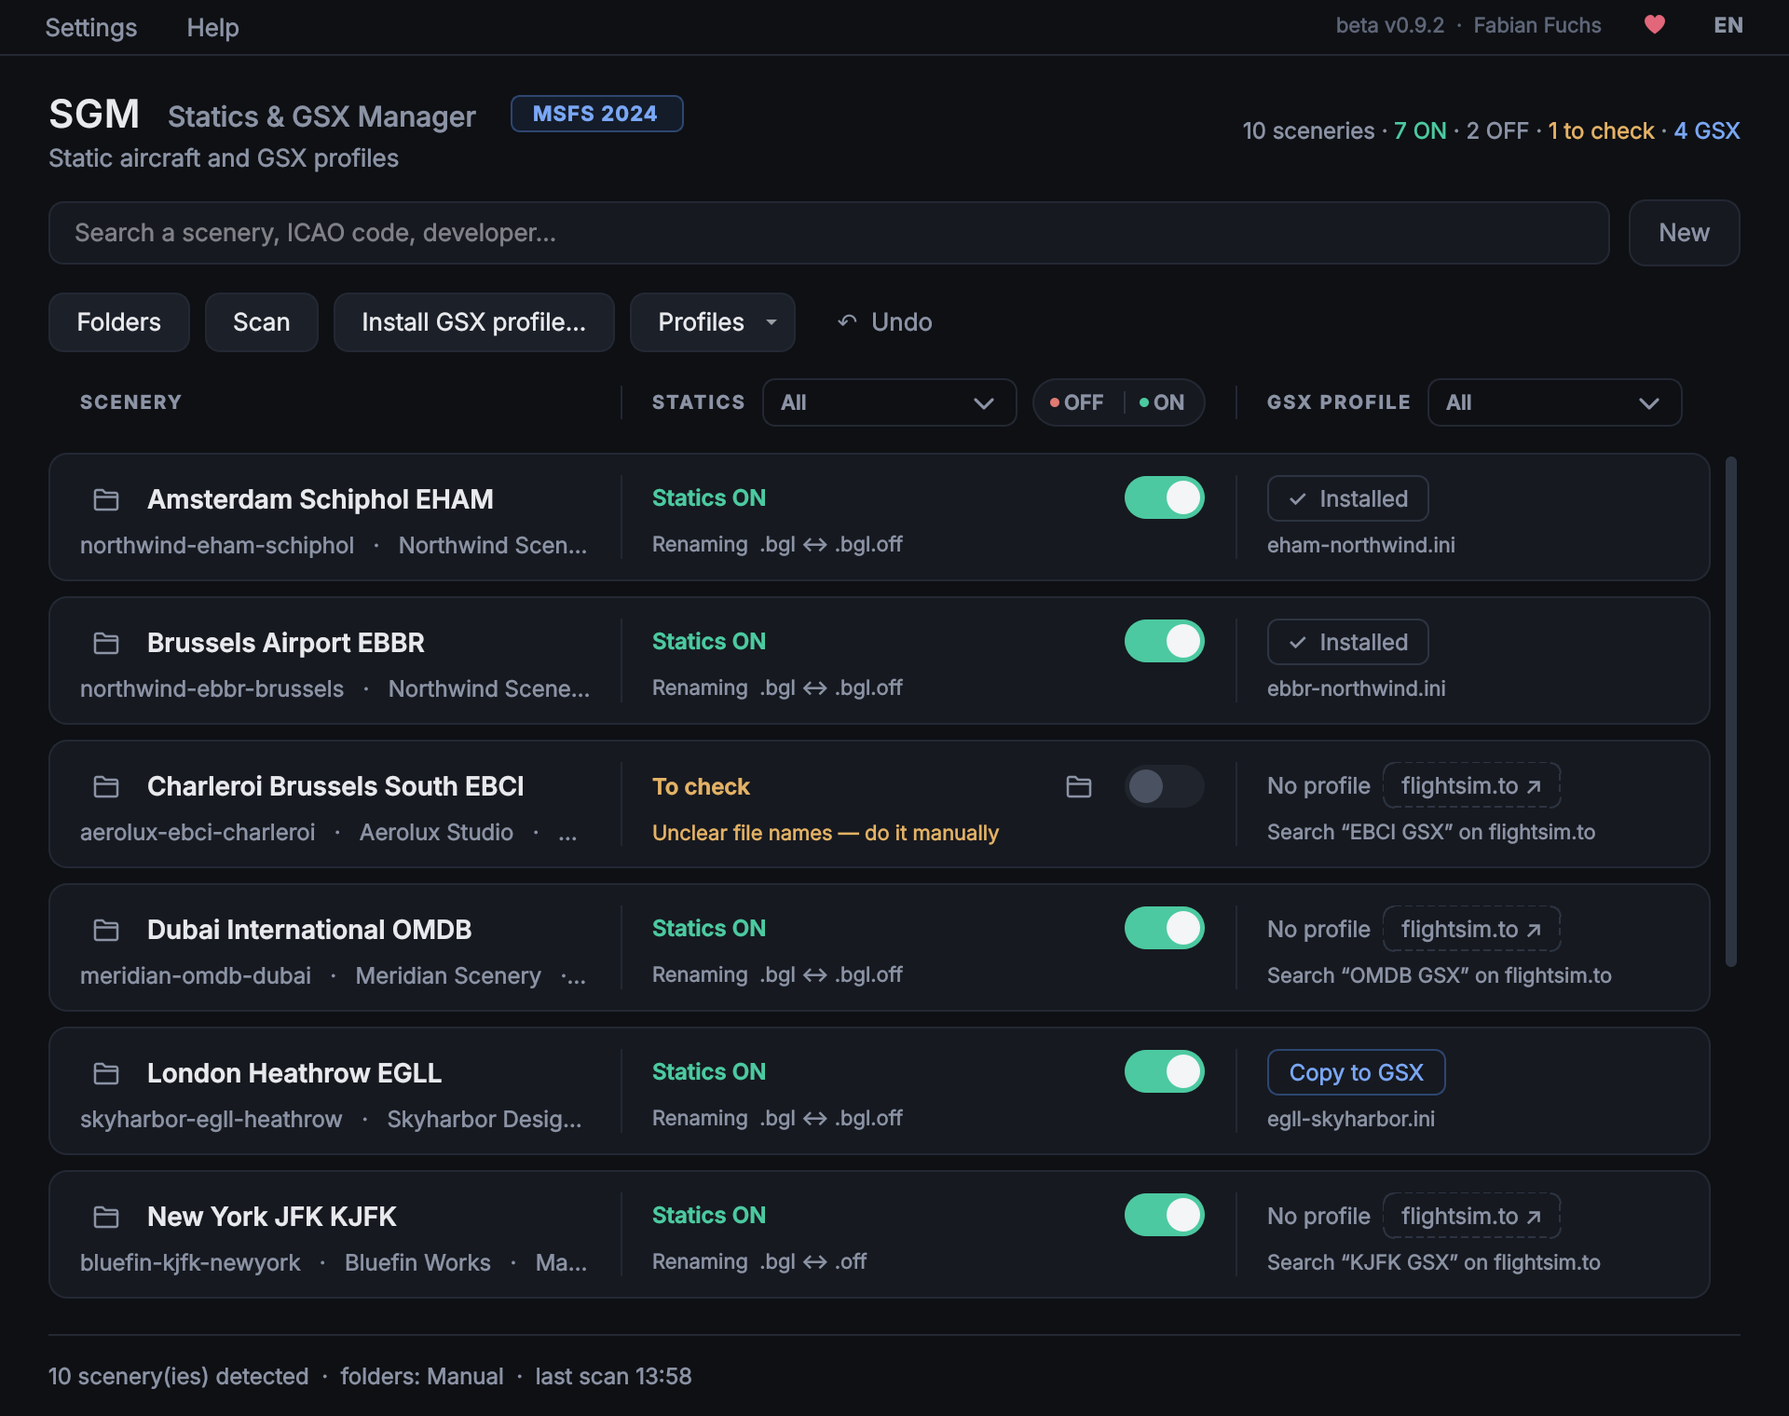
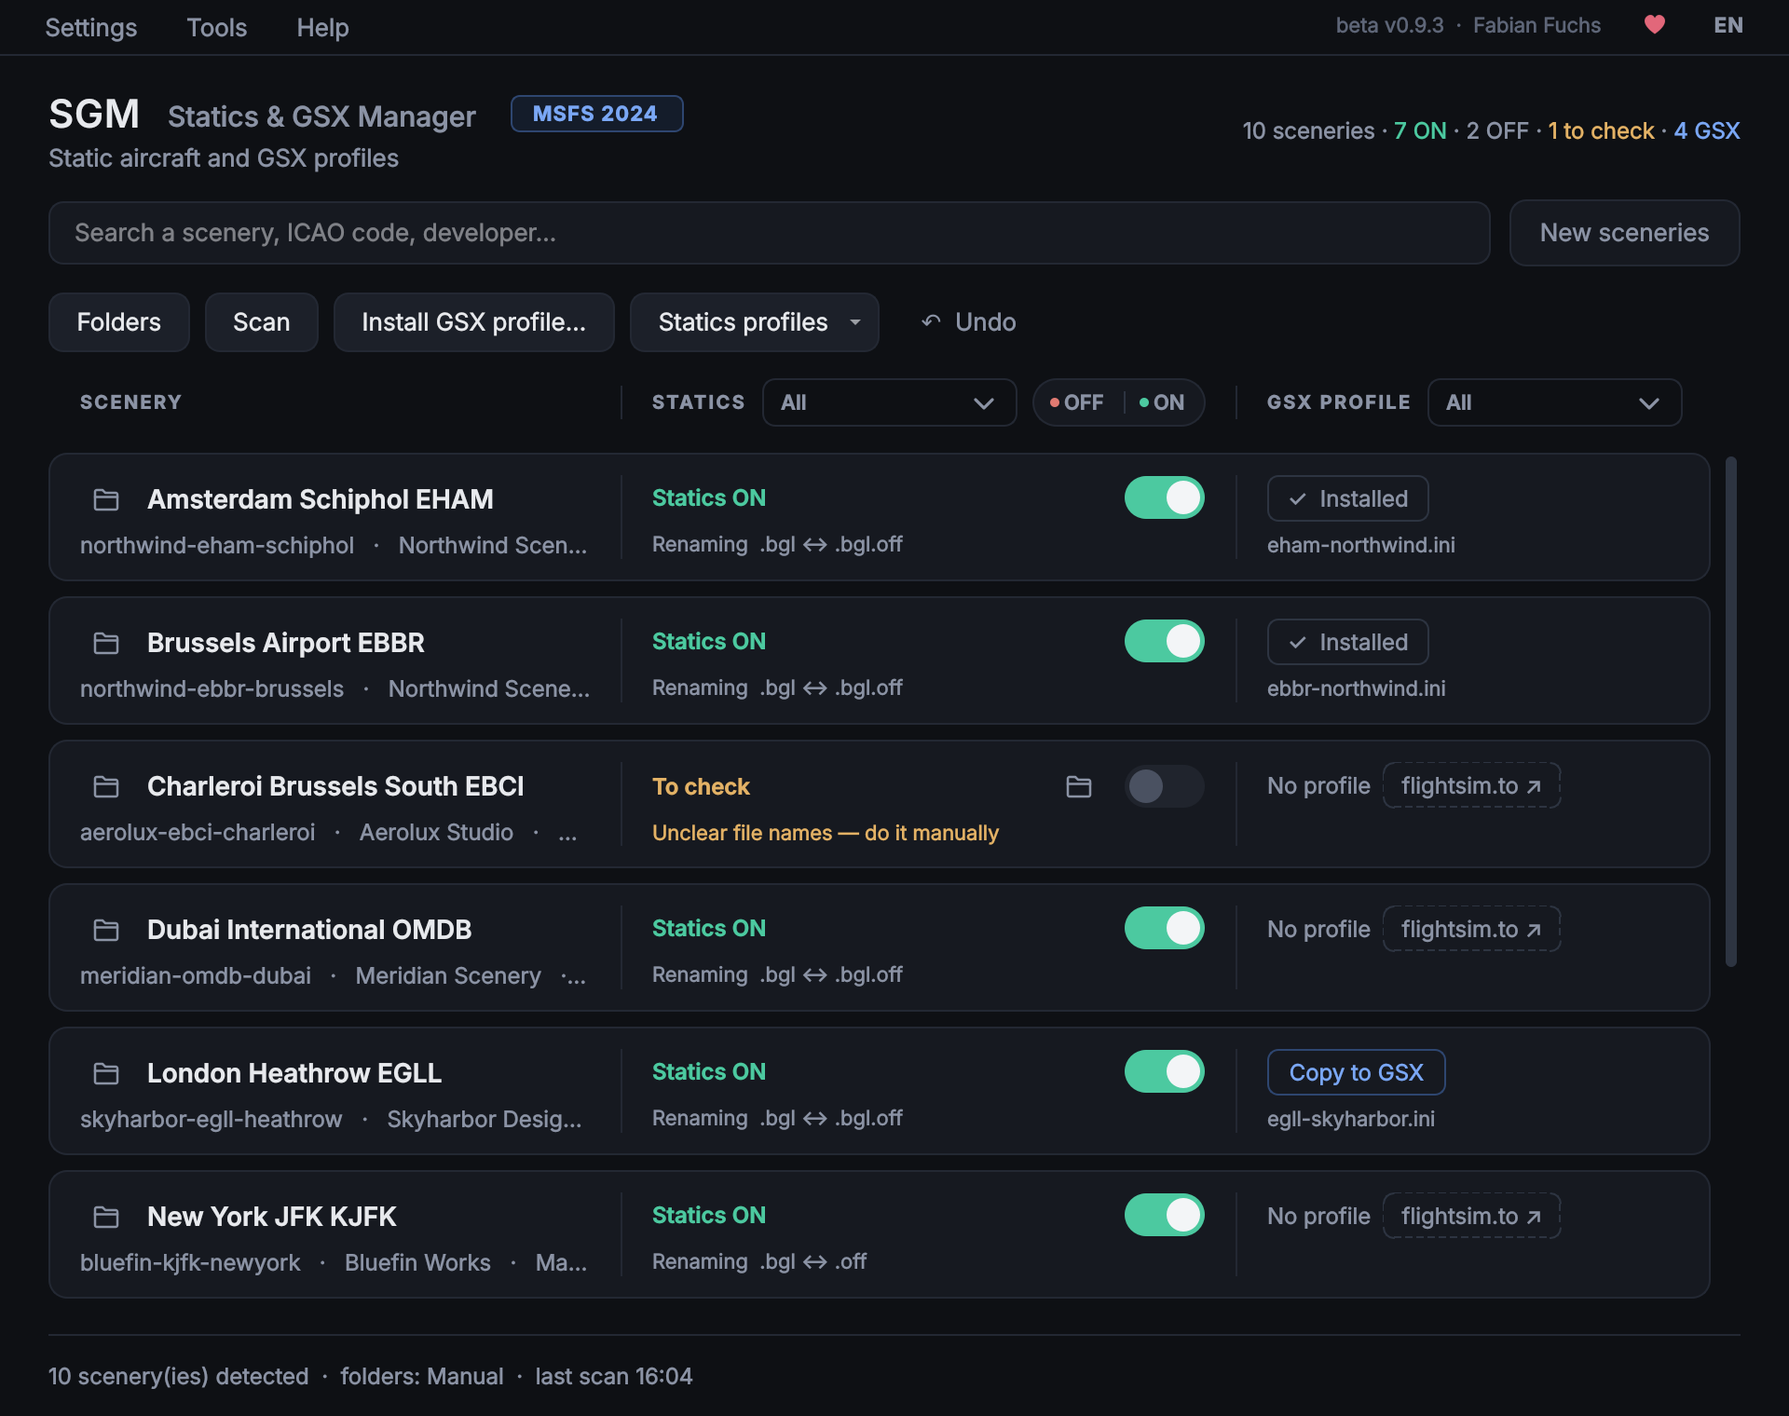
Version beta v0.9.3 : numéro, historiques, texte flightsim.to, visuels refaits avec les nouveaux menus
Reprend aussi les derniers commits de #33 restés hors de main (visuels, textes flightsim.to, décisions v1.0).

Claude-Session: https://claude.ai/code/session_01LxzMtoJ1pXRjDPWXRstKPr

diff --git a/docs/flightsim/visuels/src/annotated.html b/docs/flightsim/visuels/src/annotated.html
@@ -45,15 +45,15 @@ h1 { left: 470px; top: 58px; font-family: "Sign"; font-weight: 800; font-size: 7
   <div class="shot"><img src="shots/main.png" alt=""></div>
 
   <!-- repères : coordonnées de la capture (vue 2000 px) × 0,84 + (70, 200) -->
-  <div class="pin" style="left:256px; top:218px">1</div>
+  <div class="pin" style="left:325px; top:217px">1</div>
   <div class="pin" style="left:519px; top:273px">2</div>
   <div class="pin" style="left:1662px; top:215px">3</div>
   <div class="pin" style="left:1374px; top:284px">4</div>
-  <div class="pin" style="left:1639px; top:330px">5</div>
+  <div class="pin" style="left:1580px; top:315px">5</div>
   <div class="pin" style="left:198px; top:435px">6</div>
   <div class="pin" style="left:371px; top:435px">7</div>
-  <div class="pin" style="left:527px; top:435px">8</div>
-  <div class="pin" style="left:705px; top:407px">9</div>
+  <div class="pin" style="left:555px; top:435px">8</div>
+  <div class="pin" style="left:765px; top:407px">9</div>
   <div class="pin" style="left:1126px; top:430px">10</div>
   <div class="pin" style="left:1297px; top:430px">11</div>
   <div class="pin" style="left:120px; top:507px">12</div>
@@ -66,15 +66,15 @@ h1 { left: 470px; top: 58px; font-family: "Sign"; font-weight: 800; font-size: 7
   <div class="pin" style="left:1628px; top:707px">19</div>
 
   <ol class="legend">
-    <li><i class="n">1</i><div><b>Menus</b><span>Settings (language, folders, updates) and Help (guide, report, restore).</span></div></li>
+    <li><i class="n">1</i><div><b>Menus</b><span>Settings, Tools (scan, profiles, undo, restore, reports) and Help.</span></div></li>
     <li><i class="n">2</i><div><b>Simulator</b><span>MSFS 2024 or MSFS 2020, each with its own folders and settings.</span></div></li>
     <li><i class="n">3</i><div><b>Version, support, language</b><span>The heart supports the project; EN is the interface language (12 available).</span></div></li>
     <li><i class="n">4</i><div><b>Summary</b><span>Sceneries found, statics ON and OFF, sceneries to check, GSX profiles.</span></div></li>
-    <li><i class="n">5</i><div><b>Search and New</b><span>By name, ICAO or developer. New: added since last time.</span></div></li>
+    <li><i class="n">5</i><div><b>Search and New</b><span>By name, ICAO or developer. New sceneries: added since last time.</span></div></li>
     <li><i class="n">6</i><div><b>Folders and Scan</b><span>Where SGM looks. Scan rereads your sceneries and your download folders.</span></div></li>
     <li><i class="n">7</i><div><b>Install GSX profile</b><span>Pick a .zip, .7z or .rar, or drop it anywhere on the window.</span></div></li>
-    <li><i class="n">8</i><div><b>Profiles</b><span>Save the ON/OFF state of all sceneries and apply it again in one click.</span></div></li>
-    <li><i class="n">9</i><div><b>Undo</b><span>Ctrl+Z puts the files of the last action back. The last 10 are kept.</span></div></li>
+    <li><i class="n">8</i><div><b>Statics profiles</b><span>Save the ON/OFF state of all sceneries and apply it again in one click.</span></div></li>
+    <li><i class="n">9</i><div><b>Undo</b><span>Ctrl+Z puts the files of the last action back. F5 scans, Ctrl+F searches.</span></div></li>
     <li><i class="n">10</i><div><b>Column filters</b><span>Show only statics ON, OFF or to check, or a GSX status.</span></div></li>
     <li><i class="n">11</i><div><b>All OFF / All ON</b><span>Every scenery shown, simple cases only.</span></div></li>
     <li><i class="n">12</i><div><b>Scenery</b><span>The folder icon opens it. Right-click to restore its original state.</span></div></li>

diff --git a/statics_manager.py b/statics_manager.py
@@ -55,7 +55,7 @@ from i18n import LANGS, RTL_LANGS, get_lang, set_lang, tr
 
 APP_NAME = "SGM"
 APP_FULL = "Statics & GSX Manager"
-APP_VERSION = "0.9.2"
+APP_VERSION = "0.9.3"
 APP_AUTHOR = "Fabian Fuchs"
 # Lien de don public (PayPal.me)
 DONATE_URL = "https://paypal.me/Fuchy"

diff --git a/docs/flightsim/maj-v0.9.3.md b/docs/flightsim/maj-v0.9.3.md
@@ -1,20 +1,20 @@
-# Mise à jour flightsim.to — beta v0.9.2
+# Mise à jour flightsim.to — beta v0.9.3
 
 Tout ce qu'il faut pour mettre à jour la page https://flightsim.to/addon/119017/sgm-statics-gsx-manager-beta-v0-5
 Les textes à recopier sont en anglais, entre les lignes `---`.
 
 ## Marche à suivre
 
-1. **Fichier** : après la publication de la release v0.9.2 sur GitHub, télécharge `SGM_beta_v0.9.2.zip`
+1. **Fichier** : après la publication de la release v0.9.3 sur GitHub, télécharge `SGM_beta_v0.9.3.zip`
    (pièce jointe de la release). C'est le même fichier que la mise à jour automatique, avec son empreinte SHA-256.
-2. Sur flightsim.to : *Edit* › *Upload new version* › dépose `SGM_beta_v0.9.2.zip`.
-3. **Version** : `beta v0.9.2` — **titre de la version** : `beta v0.9.2 — Safety, reliability & automatic updates`
+2. Sur flightsim.to : *Edit* › *Upload new version* › dépose `SGM_beta_v0.9.3.zip`.
+3. **Version** : `beta v0.9.3` — **titre de la version** : `beta v0.9.3 — Safety, reliability & a cleaner interface`
 4. **Changelog** : recopie le bloc « Changelog ». Il couvre tout depuis la v0.8, puisque la v0.9 et la v0.9.1
-   n'ont jamais été publiées. Si tu as déjà mis la v0.9 en ligne sur flightsim.to, ne recopie que la partie
-   « beta v0.9.2 ».
+   et la v0.9.2 n'ont jamais été publiées. Si tu as déjà mis la v0.9 en ligne sur flightsim.to, ne recopie que les
+   parties « beta v0.9.3 » et « beta v0.9.2 ».
 5. **Short description** et **Description** : remplace les textes actuels par ceux ci-dessous.
 6. **Mots-clés** : ajoute ceux de la liste.
-7. **Images** : remplace la galerie par les 4 visuels de `docs/flightsim/visuels/` (1920 × 1080), dans l'ordre :
+7. **Images** : remplace la galerie par les 5 visuels de `docs/flightsim/visuels/` (1920 × 1080, le 5e en 2560 × 1440), dans l'ordre :
    `1-hero.png` (vignette), `2-statics.png`, `3-gsx.png`, `4-securite.png`, `5-interface.png` (interface expliquée).
 8. Le message de don et « About Me » ne changent pas.
 
@@ -22,7 +22,7 @@ Les textes à recopier sont en anglais, entre les lignes `---`.
 
 ## Titre de la version
 
-beta v0.9.2 — Safety, reliability & automatic updates
+beta v0.9.3 — Safety, reliability & a cleaner interface
 
 ---
 
@@ -50,7 +50,7 @@ Switch airport static aircraft ON/OFF in one click — the developers' own metho
 - **Drag & drop** a downloaded archive (.zip, .7z, .rar) onto SGM, or let SGM find GSX profile archives in your **download folders** (at launch and with Scan) and install them — it can then send the archive to the Recycle Bin.
 
 **Safe by design**
-- **Undo** (Ctrl+Z) for every action — all-or-nothing, even if a file is locked midway — backup before every change, and a record of the **original state** of each scenery: right-click › *Restore original state*, or *Help › Restore everything to original*.
+- **Undo** (Ctrl+Z) for every action — all-or-nothing, even if a file is locked midway — backup before every change, and a record of the **original state** of each scenery: right-click › *Restore original state*, or *Tools › Restore everything to original*.
 - Blocked while MSFS 2020 or MSFS 2024 is running. A GSX profile you edited yourself is never removed or overwritten. A scenery changed since the last scan is never touched.
 - Downloaded archives are checked before anything is extracted: only `.ini` / `.py` profile files, safe paths, limited size.
 - No installation. The only internet connection is the optional **automatic update** check (asked at first launch): nothing about you or your files is ever sent. 12 languages.
@@ -63,6 +63,11 @@ If SGM saves you some time, you can buy me a coffee ☕ — https://paypal.me/Fu
 ---
 
 ## Changelog
+
+**beta v0.9.3 — Cleaner interface**
+- **Menus reorganised**: *Settings*, a new *Tools* menu (scan, install a GSX profile, statics profiles, undo, restore everything, analysis report, backups and log folders) and *Help*.
+- **Keyboard shortcuts**: Ctrl+F search, Esc clears the search then the filters, F5 scan, Ctrl+Z undo, F1 guide.
+- Clearer labels (*Statics profiles*, *New sceneries*); the update question is a banner instead of a blocking window; lighter GSX column; Folders window in titled sections.
 
 **beta v0.9.2 — Safety & reliability**
 
@@ -91,13 +96,13 @@ If SGM saves you some time, you can buy me a coffee ☕ — https://paypal.me/Fu
 
 **Updating**
 - From v0.9 or later: SGM offers this version itself (*Update now*).
-- From an older version: delete the old SGM folder (keep `SGM_data` to keep your settings, backups and profiles), unzip v0.9.2, run `SGM.exe`. From now on, SGM can update itself.
+- From an older version: delete the old SGM folder (keep `SGM_data` to keep your settings, backups and profiles), unzip v0.9.3, run `SGM.exe`. From now on, SGM can update itself.
 
 ---
 
 ## Mots-clés (à ajouter aux actuels)
 
-auto update, undo, profiles, safe, 7z, rar
+auto update, undo, profiles, safe, 7z, rar, shortcuts
 
 Mots-clés actuels, pour mémoire : statics, static aircraft, parked aircraft, GSX, GSX Pro, GSX profile, Virtuali,
 FSDreamTeam, scenery, airport, community folder, manager, tool, utility, MSFS 2024, MSFS 2020, toggle, AI traffic,

diff --git a/docs/ROADMAP.md b/docs/ROADMAP.md
@@ -7,18 +7,15 @@ Règles : les agents ajoutent les idées dans **À trier**. **Seul Fabian** dép
 
 Placés par Fabian le 2026-11-15 (« je suis tes propositions »).
 
-1. **Publier la v0.9.2 sur GitHub** — Fabian publie (aucun agent ne publie) : Actions › « Préparer une release
-   (brouillon) », puis « Publish release ». Ne pas publier le brouillon v0.9 (faille des chemins d'archive,
-   corrigée en v0.9.2) : le supprimer. S.
-2. **v0.9.3 : ergonomie (revue design D6 à D14)** — menus regroupés (Outils / Paramètres / Aide), raccourcis Ctrl+F, F5,
-   Échap ; libellés « Défaire », « Profils statics », « Nouvelles scènes » ; question de mise à jour dans le bandeau ;
-   colonne GSX plus légère ; hiérarchie de la fenêtre Dossiers. M.
-3. **Version installable et v1.0 RC** (placé par Fabian le 2026-11-15, voir DECISIONS) — installeur Inno Setup par
+1. **Publier la v0.9.3 sur GitHub** (au lieu de la v0.9.2 : elle contient tout) — Fabian publie (aucun agent ne
+   publie) : Actions › « Préparer une release (brouillon) », puis « Publish release ». Supprimer le brouillon v0.9
+   (faille des chemins d'archive). Puis mise à jour flightsim.to (`docs/flightsim/maj-v0.9.3.md`). S.
+2. **Version installable et v1.0 RC** (placé par Fabian le 2026-11-15, voir DECISIONS) — installeur Inno Setup par
    utilisateur, reprise du `SGM_data` portable par copie (premier lancement et Paramètres), désinstallation qui garde
    les données, mise à jour automatique de la version installée (installeur vérifié SHA-256, lancé en silencieux),
    release avec zip portable + installeur compatibles avec les v0.9.x, fin de « beta » (titres, README,
    flightsim.to, visuels). M à L.
-4. **Nouvelles fonctions (revue R&D, E1 à E5)**, après la 1.0 — statics remis par une mise à jour de scène (bandeau
+3. **Nouvelles fonctions (revue R&D, E1 à E5)**, après la 1.0 — statics remis par une mise à jour de scène (bandeau
    « Réappliquer ») ; profil GSX peut-être périmé ; détection du trafic IA ; export / import des réglages et profils ;
    tri de « À trier ». Points à **décision de Fabian** avant développement : doublons OACI (SGM ou 3AM ?),
    Marketplace en lecture seule, ligne de commande. M à L.
@@ -26,7 +23,7 @@ Placés par Fabian le 2026-11-15 (« je suis tes propositions »).
 
 ## En cours (PR à tester)
 
-- beta v0.9.2 — branche `sprint/2026-11-15-v0.9.2`.
+- beta v0.9.3 — branche `sprint/2026-11-15-v0.9.3`.
 
 ## À trier
 
@@ -55,6 +52,8 @@ Chaque sujet : titre, origine, bénéfice pour l'utilisateur, estimation (S/M/L)
 
 ## Livré
 
+- **Ergonomie v0.9.3** (PR #34) — menus Paramètres / Outils / Aide, raccourcis, libellés, bandeau de mise à jour,
+  colonne GSX allégée, fenêtre Dossiers en sections. « Annuler » gardé (mot de Windows pour Ctrl+Z).
 - **beta v0.9.2** (préparée) — sécurité archives et mise à jour (PR #29), robustesse et tout-ou-rien (PR #30),
   défauts de design (PR #31), traductions et guide (PR #32).
 - **Mise à jour : 404 = aucune version publiée** (PR #27), **beta v0.9** (PR #26).

diff --git a/README_FR.md b/README_FR.md
@@ -1,4 +1,4 @@
-# SGM — Statics & GSX Manager · beta v0.9.2
+# SGM — Statics & GSX Manager · beta v0.9.3
 
 <p align="center"><img src="assets/SGM-256.png" width="128" alt="SGM"></p>
 
@@ -32,7 +32,7 @@ SGM le fait pour toi :
 
 Il n'y a rien à installer.
 
-1. Décompresse `SGM_beta_v0.9.2.zip` où tu veux (dossier d'outils, clé USB…).
+1. Décompresse `SGM_beta_v0.9.3.zip` où tu veux (dossier d'outils, clé USB…).
 2. Lance `SGM.exe`, dans le dossier `SGM`.
 
 Garde tout le dossier `SGM` ensemble : `SGM.exe` a besoin du dossier `_internal` placé à côté de lui.
@@ -132,7 +132,7 @@ Une mise à jour de scène (par le Marketplace ou un installateur) peut remettre
 Prérequis : Python 3.10 ou plus récent.
 
 1. Place ensemble `statics_manager.py`, `i18n.py`, `build_exe.bat`, les deux README et le dossier `licenses`.
-2. Lance `build_exe.bat`. Il installe PySide6 et PyInstaller, crée `dist\SGM\SGM.exe`, y copie les licences et les README, puis crée `dist\SGM_beta_v0.9.2.zip`.
+2. Lance `build_exe.bat`. Il installe PySide6 et PyInstaller, crée `dist\SGM\SGM.exe`, y copie les licences et les README, puis crée `dist\SGM_beta_v0.9.3.zip`.
 
 Pour lancer sans compiler : `pip install pyside6`, puis `python statics_manager.py`.
 
@@ -181,6 +181,11 @@ Détails et versions exactes : `licenses/THIRD-PARTY-NOTICES.txt` et **Aide › 
 - Microsoft Flight Simulator est une marque de Microsoft Corporation. GSX est un produit de FSDreamTeam / Virtuali. Les autres noms et marques appartiennent à leurs propriétaires.
 
 ## Historique des versions
+
+**beta v0.9.3**
+- **Menus réorganisés** : *Paramètres*, un nouveau menu *Outils* (analyser, installer un profil GSX, profils de statics, annuler, tout restaurer, rapport d'analyse, dossiers des sauvegardes et du journal) et *Aide*.
+- **Raccourcis clavier** : Ctrl+F recherche, Échap vide la recherche puis les filtres, F5 analyser, Ctrl+Z annuler, F1 guide.
+- Libellés plus clairs (*Profils de statics*, *Nouvelles scènes*), question de mise à jour dans un bandeau au lieu d'une fenêtre bloquante, colonne GSX allégée, fenêtre Dossiers en sections titrées.
 
 **beta v0.9.2**
 - **Sécurité** : les archives contenant des chemins absolus ou réseau sont refusées ; les archives .7z / .rar avec un fichier de profil démesuré sont refusées avant extraction ; la mise à jour ne remplace que les fichiers de SGM et accepte tout nom de dossier.

diff --git a/README.md b/README.md
@@ -1,4 +1,4 @@
-# SGM — Statics & GSX Manager · beta v0.9.2
+# SGM — Statics & GSX Manager · beta v0.9.3
 
 <p align="center"><img src="assets/SGM-256.png" width="128" alt="SGM"></p>
 
@@ -32,7 +32,7 @@ SGM does it for you:
 
 There is nothing to install.
 
-1. Unzip `SGM_beta_v0.9.2.zip` anywhere (tools folder, USB stick…).
+1. Unzip `SGM_beta_v0.9.3.zip` anywhere (tools folder, USB stick…).
 2. Run `SGM.exe` from the `SGM` folder.
 
 Keep the whole `SGM` folder together: `SGM.exe` needs the `_internal` folder next to it.
@@ -132,7 +132,7 @@ A scenery update (for example through the Marketplace or an installer) may resto
 Requirements: Python 3.10 or newer.
 
 1. Put `statics_manager.py`, `i18n.py`, `build_exe.bat`, both README files and the `licenses` folder together.
-2. Run `build_exe.bat`. It installs PySide6 and PyInstaller, builds `dist\SGM\SGM.exe`, copies the licences and README files, and creates `dist\SGM_beta_v0.9.2.zip`.
+2. Run `build_exe.bat`. It installs PySide6 and PyInstaller, builds `dist\SGM\SGM.exe`, copies the licences and README files, and creates `dist\SGM_beta_v0.9.3.zip`.
 
 To run without building: `pip install pyside6`, then `python statics_manager.py`.
 
@@ -181,6 +181,11 @@ Details and exact versions: `licenses/THIRD-PARTY-NOTICES.txt` and **Help › Li
 - Microsoft Flight Simulator is a trademark of Microsoft Corporation. GSX is a product of FSDreamTeam / Virtuali. All other names and trademarks are the property of their respective owners.
 
 ## Version history
+
+**beta v0.9.3**
+- **Menus reorganised**: *Settings*, a new *Tools* menu (scan, install a GSX profile, statics profiles, undo, restore everything, analysis report, backups and log folders) and *Help*.
+- **Keyboard shortcuts**: Ctrl+F search, Esc clears the search then the filters, F5 scan, Ctrl+Z undo, F1 guide.
+- Clearer labels (*Statics profiles*, *New sceneries*), update question shown in a banner instead of a blocking window, lighter GSX column, Folders window in titled sections.
 
 **beta v0.9.2**
 - **Safety**: archives containing absolute or network paths are refused; .7z / .rar archives with an oversized profile file are refused before extraction; the updater only replaces SGM's own files and handles any folder name.

diff --git a/docs/DECISIONS.md b/docs/DECISIONS.md
@@ -5,7 +5,7 @@ Ces décisions s'imposent à tous les agents. Seul Fabian les modifie.
 ## Produit
 
 - **Nom** : SGM — Statics & GSX Manager (anciennement Statics Manager).
-- **Auteur** : Fabian Fuchs. Version actuelle : beta v0.9.2 (sprint proposé et accepté par Fabian le 2026-11-15).
+- **Auteur** : Fabian Fuchs. Version actuelle : beta v0.9.3 (ergonomie, chemin vers la v1.0 décidé par Fabian le 2026-11-15).
 - **Simulateurs** : MSFS 2024 par défaut, mode MSFS 2020 en option, mémoire séparée par simulateur.
 - **Portable** : aucune installation, données dans `SGM_data` à côté de `SGM.exe`.
 - **Version installable (v1.0, décision du 2026-11-15)** : installeur **Inno Setup** (outil de compilation seulement,

diff --git a/docs/flightsim/visuels/README.md b/docs/flightsim/visuels/README.md
@@ -1,4 +1,4 @@
-# Visuels flightsim.to (beta v0.9.2)
+# Visuels flightsim.to (beta v0.9.3)
 
 Images 1920 × 1080, à téléverser dans cet ordre (la première sert de vignette) :
 
